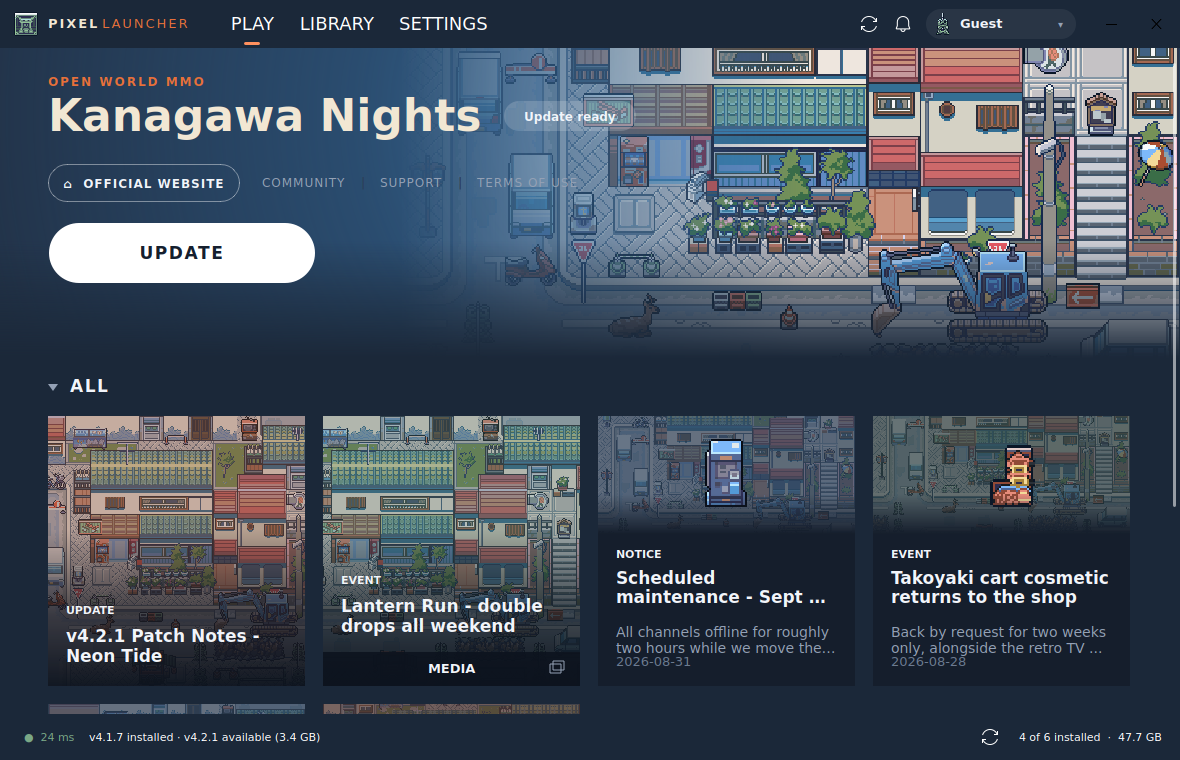
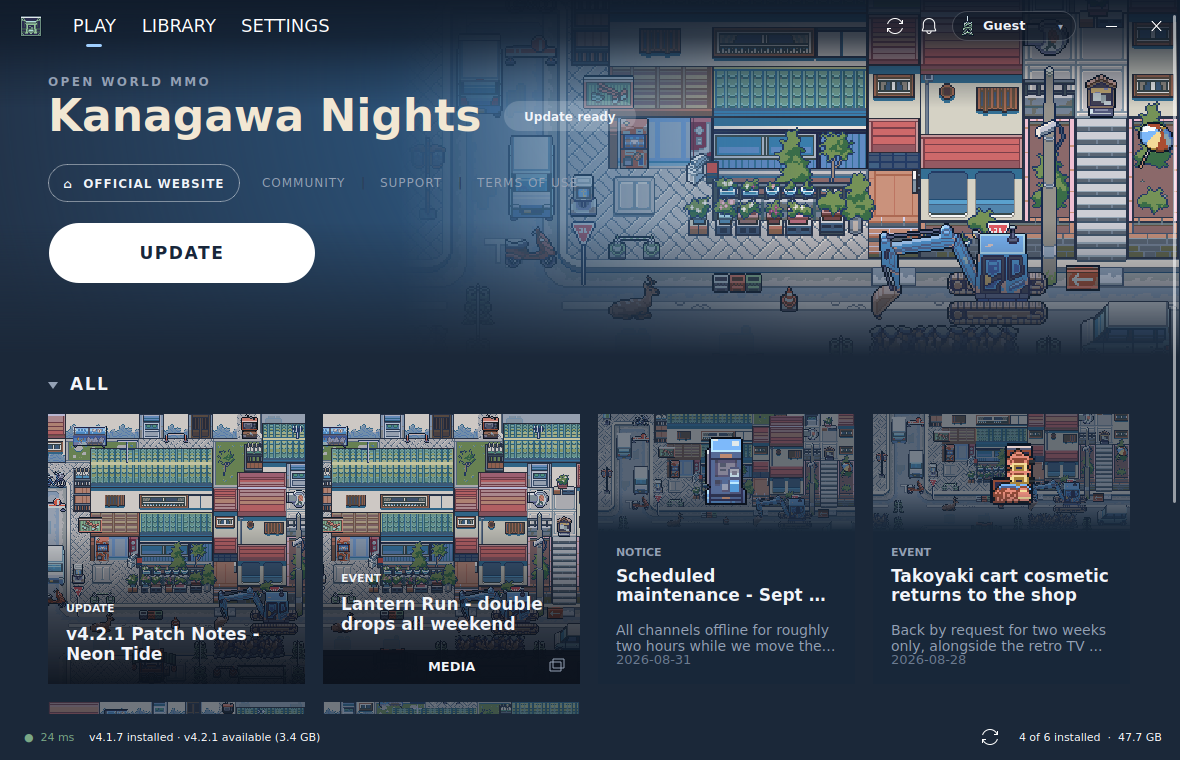
Fix the clashing accent and the header band
Two things were wrong with the previous pass.

The pixel pack's orange was still the UI accent - the launcher wordmark, the
active tab underline, the genre line, the Fluent theme colour - sitting on a
navy page it fought with. Every card's artwork was also washed in its
category colour, which is what made the thumbnails look muddy. The reference
has no orange at all, and its card art is untinted.

The header was an opaque #151f2e band stacked on a #223349 page, so two
unrelated darks met in a hard line across the top. The reference has no
header band; its key art runs to the very top edge.

- Palette is now one family of navies, with the page's own blue as the only
  UI accent. Orange survives only in STATE_COLORS, where it means "update".
- Title bar is transparent and the hero starts at y=0, so the art reaches
  the top edge. A graded veil along that edge keeps the white window
  controls readable over bright pixels; on the inner pages, which have no
  art, the bar takes the page's own navy so scrolled content cannot slide
  under it.
- Dropped the launcher wordmark from the header - it competed with the game
  title directly below it. A small mark and the nav links remain.
- Card artwork keeps its own colours; the darkening left on it is only what
  the overlaid text needs. Category labels are grey, as on the reference.
- Account chip is a dark hairline pill, legible on art or on navy.

Claude-Session: https://claude.ai/code/session_019ZKVQx1vw1PW2CnZD2wXtT

diff --git a/launcher/ui/widgets/title_bar.py b/launcher/ui/widgets/title_bar.py
@@ -1,11 +1,11 @@
 """Frameless title bar with the launcher wordmark and the account chip."""
-from PyQt5.QtCore import Qt, pyqtSignal
+from PyQt5.QtCore import Qt, QRectF, pyqtSignal
 from PyQt5.QtGui import QFont, QPainter, QColor
 from PyQt5.QtWidgets import QLabel, QHBoxLayout, QWidget
 
 from qframelesswindow import TitleBar
 from qfluentwidgets import (TransparentToolButton, FluentIcon, RoundMenu, Action,
-                            setFont, MenuAnimationType, Pivot, ToolTipFilter)
+                            MenuAnimationType, Pivot, ToolTipFilter)
 
 from ...core import pixel, theme
 from ...core.paths import tile
@@ -23,7 +23,7 @@ class AccountChip(QWidget):
         self.setCursor(Qt.PointingHandCursor)
         self._name = "Guest"
         self._avatar = "frog"
-        self.setFixedWidth(150)
+        self.setFixedWidth(124)
 
     def set_account(self, name: str, avatar: str = "frog"):
         self._name = name
@@ -33,18 +33,19 @@ class AccountChip(QWidget):
     def paintEvent(self, event):
         p = QPainter(self)
         p.setRenderHint(QPainter.Antialiasing)
-        p.setPen(Qt.NoPen)
-        p.setBrush(QColor(255, 255, 255, 16))
-        p.drawRoundedRect(self.rect(), 15, 15)
+        # A dark pill with a hairline edge, so it reads on art or on navy.
+        p.setPen(QColor(255, 255, 255, 46))
+        p.setBrush(QColor(13, 22, 36, 130))
+        p.drawRoundedRect(QRectF(self.rect()).adjusted(0.5, 0.5, -0.5, -0.5), 14.5, 14.5)
 
         icon = pixel.load(tile(self._avatar), 1)
         if not icon.isNull():
-            scaled = icon.scaled(22, 22, Qt.KeepAspectRatio, Qt.FastTransformation)
+            scaled = icon.scaled(20, 20, Qt.KeepAspectRatio, Qt.FastTransformation)
             p.drawPixmap(6, (self.height() - scaled.height()) // 2, scaled)
 
         p.setFont(QFont("Noto Sans", 9, QFont.DemiBold))
         p.setPen(QColor(theme.TEXT))
-        p.drawText(34, self.height() // 2 + 4, self._name)
+        p.drawText(31, self.height() // 2 + 4, self._name)
 
         p.setPen(QColor(theme.TEXT_DIM))
         p.setFont(QFont("Noto Sans", 7))
@@ -65,20 +66,15 @@ class AccountChip(QWidget):
 class LauncherTitleBar(TitleBar):
     def __init__(self, parent=None):
         super().__init__(parent)
-        self.setFixedHeight(48)
+        self.setFixedHeight(52)
+        self.setStyleSheet("background: transparent;")
 
+        # A small mark only. A launcher wordmark here would compete with the
+        # game's own title directly below it.
         mark = QLabel()
         mark.setPixmap(pixel.load(tile("torii"), 1).scaled(
-            24, 24, Qt.KeepAspectRatio, Qt.FastTransformation))
-        mark.setContentsMargins(14, 0, 8, 0)
-
-        wordmark = QLabel("PIXEL")
-        setFont(wordmark, 13, QFont.Black)
-        wordmark.setStyleSheet(f"color: {theme.CREAM}; letter-spacing: 2px;")
-
-        suffix = QLabel("LAUNCHER")
-        setFont(suffix, 13, QFont.Light)
-        suffix.setStyleSheet(f"color: {theme.ORANGE}; letter-spacing: 2px;")
+            22, 22, Qt.KeepAspectRatio, Qt.FastTransformation))
+        mark.setContentsMargins(20, 0, 0, 0)
 
         # App-level nav lives up here so the page below can stay faithful to
         # the reference layout, which has no sidebar and no tab band.
@@ -100,10 +96,9 @@ class LauncherTitleBar(TitleBar):
 
         left = QHBoxLayout()
         left.setContentsMargins(0, 0, 0, 0)
-        left.setSpacing(2)
-        for widget in (mark, wordmark, suffix):
-            left.addWidget(widget, 0, Qt.AlignVCenter)
-        left.addSpacing(26)
+        left.setSpacing(0)
+        left.addWidget(mark, 0, Qt.AlignVCenter)
+        left.addSpacing(18)
         left.addWidget(self.pivot, 0, Qt.AlignVCenter)
 
         # The base title bar already ends with a stretch and the window buttons,
@@ -119,6 +114,7 @@ class LauncherTitleBar(TitleBar):
 
         self.maxBtn.setVisible(False)
         for btn in (self.minBtn, self.closeBtn):
+            btn.setNormalColor(Qt.white)
             btn.setHoverColor(Qt.white)
             btn.setPressedColor(Qt.white)
         self.minBtn.setHoverBackgroundColor(QColor(255, 255, 255, 26))

diff --git a/launcher/ui/widgets/news_grid.py b/launcher/ui/widgets/news_grid.py
@@ -10,13 +10,6 @@ from PyQt5.QtWidgets import QWidget
 from ...core import pixel, theme
 from ...core.paths import tile
 
-CATEGORY_COLORS = {
-    "Notice": theme.SKY,
-    "Update": theme.ORANGE,
-    "Event": theme.MOSS,
-    "Sales": theme.CREAM,
-}
-
 CATEGORY_SPRITES = {
     "Update": ["sign_neon", "machine", "arcade"],
     "Event": ["food_cart", "fan", "drone"],
@@ -40,7 +33,6 @@ class NewsCard(QWidget):
         self.accent = accent
         self.sprite = sprite
         self.featured = bool(item.get("featured"))
-        self.tint = CATEGORY_COLORS.get(item["category"], accent)
         self.setFixedSize(CARD_W, CARD_H)
         self.setCursor(Qt.PointingHandCursor)
         self._lift = 0.0
@@ -98,14 +90,11 @@ class NewsCard(QWidget):
             p.drawPixmap(art_rect, pixel.fit(self.art, int(art_rect.width()),
                                              int(art_rect.height()), focus, hfocus),
                          QRectF(0, 0, art_rect.width(), art_rect.height()))
-        p.fillRect(art_rect, QColor(21, 30, 44, darken))
-        tint = QColor(self.tint)
-        tint.setAlpha(46)
-        p.fillRect(art_rect, tint)
+        p.fillRect(art_rect, QColor(24, 39, 57, darken))
         p.restore()
 
     def _paint_art(self, p, art_rect):
-        self._draw_art(p, art_rect, self.focus, self.hfocus, 168)
+        self._draw_art(p, art_rect, self.focus, self.hfocus, 150)
 
         if not self.sprite.isNull():
             side = 74 if self._lift else 68
@@ -125,7 +114,7 @@ class NewsCard(QWidget):
 
     def _paint_poster(self, p, rect):
         """A promo post: artwork edge to edge, title burned into the bottom."""
-        self._draw_art(p, rect, self.focus, self.hfocus, 58)
+        self._draw_art(p, rect, self.focus, self.hfocus, 40)
 
         veil = QLinearGradient(0, rect.top() + rect.height() * 0.42, 0, rect.bottom())
         veil.setColorAt(0.0, QColor(12, 19, 30, 0))
@@ -175,7 +164,7 @@ class NewsCard(QWidget):
         y = rect.top() + ART_H + 24
 
         p.setFont(QFont("Noto Sans", 8, QFont.Bold))
-        p.setPen(QColor(theme.TEXT))
+        p.setPen(QColor(theme.TEXT_DIM))
         p.drawText(int(x), int(y), self.item["category"].upper())
 
         p.setPen(QColor(theme.TEXT))

diff --git a/launcher/ui/widgets/hero.py b/launcher/ui/widgets/hero.py
@@ -83,7 +83,7 @@ class HeroSection(QWidget):
 
     def __init__(self, parent=None):
         super().__init__(parent)
-        self.setFixedHeight(310)
+        self.setFixedHeight(356)
         self.setSizePolicy(QSizePolicy.Expanding, QSizePolicy.Fixed)
 
         self._movie = None
@@ -104,7 +104,7 @@ class HeroSection(QWidget):
 
     def _build(self):
         layout = QVBoxLayout(self)
-        layout.setContentsMargins(48, 26, 48, 18)
+        layout.setContentsMargins(48, 74, 48, 18)
         layout.setSpacing(0)
 
         self.genre = QLabel()
@@ -163,7 +163,7 @@ class HeroSection(QWidget):
         changed = first or self._game.id != game.id
 
         self.genre.setText(game.genre.upper())
-        self.genre.setStyleSheet(f"color: {game.accent}; letter-spacing: 2px;")
+        self.genre.setStyleSheet(f"color: {theme.TEXT_DIM}; letter-spacing: 2.4px;")
         self.title.setText(game.title)
         # QLabel over-reports its width for a heavy display font, which pushes
         # the chip on top of the text; measure it and pin the width instead.
@@ -265,6 +265,15 @@ class HeroSection(QWidget):
 
     def _paint_scrim(self, p, rect, art):
         # Fade the art into the page on every edge it touches.
+        # A soft veil along the top edge. Invisible over the navy left side,
+        # and enough shade for the white window controls on the right.
+        top = QLinearGradient(0, 0, 0, 108)
+        top.setColorAt(0.00, QColor(16, 27, 42, 248))
+        top.setColorAt(0.34, QColor(16, 27, 42, 205))
+        top.setColorAt(0.68, QColor(16, 27, 42, 88))
+        top.setColorAt(1.00, QColor(16, 27, 42, 0))
+        p.fillRect(rect, top)
+
         bottom = QLinearGradient(0, rect.height() * 0.62, 0, rect.height())
         bottom.setColorAt(0.0, QColor(27, 40, 57, 0))
         bottom.setColorAt(1.0, QColor(theme.BASE_LOW))

diff --git a/launcher/ui/main_window.py b/launcher/ui/main_window.py
@@ -49,7 +49,7 @@ class MainWindow(FramelessWindow):
 
     def _build_ui(self):
         column = QVBoxLayout(self)
-        column.setContentsMargins(0, self.titleBar.height(), 0, 0)
+        column.setContentsMargins(0, 0, 0, 0)
         column.setSpacing(0)
 
         self.stack = PopUpAniStackedWidget(self)
@@ -71,7 +71,7 @@ class MainWindow(FramelessWindow):
 
     def _apply_style(self):
         setTheme(Theme.DARK)
-        setThemeColor(palette.ORANGE)
+        setThemeColor(palette.ACCENT)
         self.setStyleSheet(STYLE_SHEET)
 
     def _center(self):
@@ -114,6 +114,12 @@ class MainWindow(FramelessWindow):
     def _go(self, key):
         self.stack.setCurrentWidget({"home": self.home, "library": self.library,
                                      "settings": self.settings}[key])
+        # Over the hero the bar is transparent so the art reaches the top edge.
+        # The inner pages have no art, so it takes the page's own navy and
+        # scrolled content cannot slide under it.
+        self.titleBar.setStyleSheet(
+            "background: transparent;" if key == "home"
+            else f"LauncherTitleBar {{ background-color: {palette.BASE_LOW}; }}")
 
     def select_game(self, game_id: str):
         self.current = self.catalog.get(game_id)

diff --git a/launcher/core/theme.py b/launcher/core/theme.py
@@ -1,18 +1,22 @@
 """Palette matched to the reference game page: deep navy blue, not black."""
 
-# Chrome and page. The page is navy; the art sits in a blue glow.
-INK = "#151f2e"
+# One family of navies, so nothing meets in a hard line. The page is navy,
+# the art sits in a blue glow, and the chrome is the same hue a shade down.
+INK = "#18263a"
 BASE = "#223349"
 BASE_LOW = "#1b2839"
-SURFACE = "#151e2c"
-SURFACE_HI = "#1d2939"
+SURFACE = "#182739"
+SURFACE_HI = "#213248"
 LINE = "#2c3d55"
 
 # The cyan-blue bloom behind the key art.
 GLOW = "#3b6f9e"
 SCRIM = "#1d2c40"
 
-# Accents pulled straight out of the sprites.
+# The UI accent is the page's own blue. The sprite colours below are for
+# game identity and status only - they never tint the chrome.
+ACCENT = "#7fb2e5"
+
 ORANGE = "#e8703a"
 ORANGE_DIM = "#b4522a"
 SKY = "#7fb2e5"

diff --git a/launcher/ui/library_page.py b/launcher/ui/library_page.py
@@ -46,7 +46,7 @@ class GameCard(QWidget):
         art = QRectF(rect.left(), rect.top(), rect.width(), 128)
         accent = QColor(self.game.accent)
         grad = QLinearGradient(art.left(), art.top(), art.right(), art.bottom())
-        grad.setColorAt(0, QColor(accent.red(), accent.green(), accent.blue(), 60))
+        grad.setColorAt(0, QColor(accent.red(), accent.green(), accent.blue(), 34))
         grad.setColorAt(1, QColor(theme.INK))
         p.setBrush(grad)
         p.drawRect(art)
@@ -88,7 +88,7 @@ class LibraryPage(QWidget):
         self.current_id = catalog.games[0].id
 
         layout = QVBoxLayout(self)
-        layout.setContentsMargins(48, 26, 30, 14)
+        layout.setContentsMargins(48, 72, 30, 14)
         layout.setSpacing(16)
 
         header = QHBoxLayout()

diff --git a/launcher/ui/settings_page.py b/launcher/ui/settings_page.py
@@ -39,7 +39,7 @@ class SettingsPage(QWidget):
 
         # ExpandLayout ignores a top margin, so open the page with a spacer.
         gap = QWidget(holder)
-        gap.setFixedHeight(14)
+        gap.setFixedHeight(58)
         layout.addWidget(gap)
 
         self.game_group = SettingCardGroup("Game", holder)

diff --git a/README.md b/README.md
@@ -6,8 +6,13 @@ skinned with GuttyKreum's *Urban Accessories* pixel art.
 
 Laid out like a publisher's game page: deep navy, key art fading out of a blue
 bloom, a logo block with a status chip and section links, one white pill
-call-to-action, and a row of notice cards under a `▾ ALL` filter. No sidebar -
-app navigation sits in the title bar, and the Library tab switches games.
+call-to-action, and a row of notice cards under a `▾ ALL` filter. No sidebar
+and no header band - the art runs to the top edge, app navigation floats over
+it, and the Library tab switches games.
+
+The chrome is one family of navies (`launcher/core/theme.py`) with the page's
+own blue as the only UI accent. The pixel pack's warmer colours are reserved
+for game identity and status - they never tint the interface or the artwork.
 
 ![Play tab](docs/screenshot-play.png)
 
